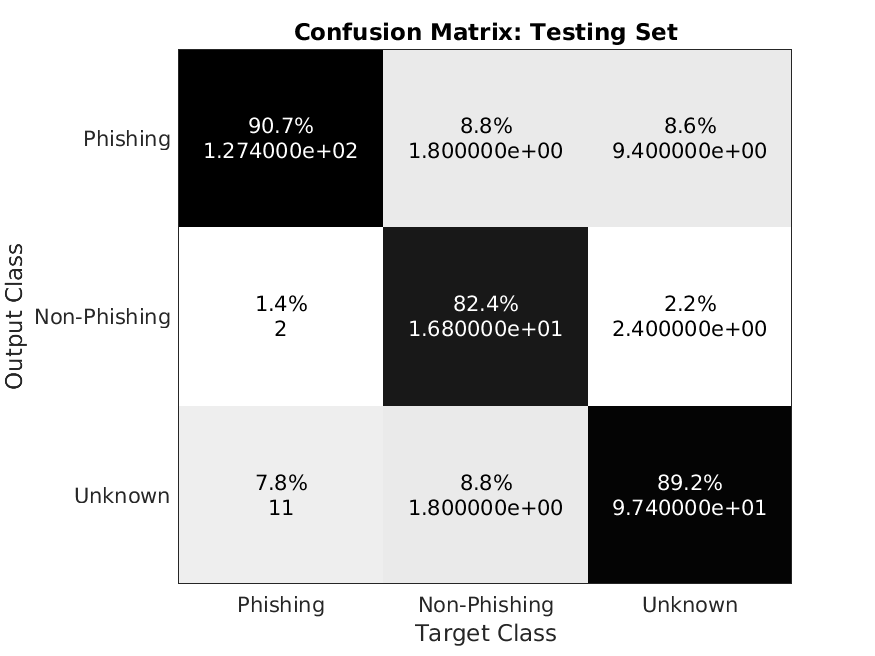
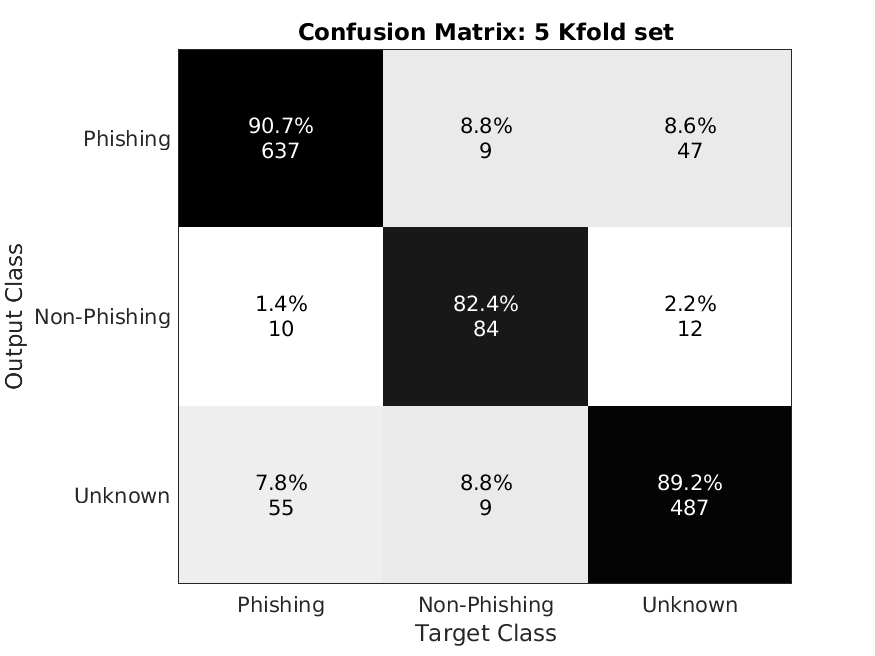
report trial adding tables to results

diff --git a/Custom-NN/initial_script_matlab.m b/Custom-NN/initial_script_matlab.m
@@ -139,7 +139,7 @@ plot_confusion(test_confusions{ind(1)},labels,"Testing Set",7)
 plot_confusion(test_confusions_sum{ind(1)},labels,"5 Kfold set",5)
 plot_confusion(overal_confusions{ind(1)},labels,"Overal Set",6)
 saveas(figure(4),"best_NN_train_confusion.png")
-saveas(figure(5),"best_NN_kfold_average_test_confusion_compare_this.png")
+saveas(figure(7),"best_NN_kfold_average_test_confusion_compare_this.png")
 saveas(figure(6),"best_NN_overal_confusion.png")
-saveas(figure(7),"best_NN_kfold_sum_test_confusion_compare_this.png")
+saveas(figure(5),"best_NN_kfold_sum_test_confusion_compare_this.png")
 disp("complete")
